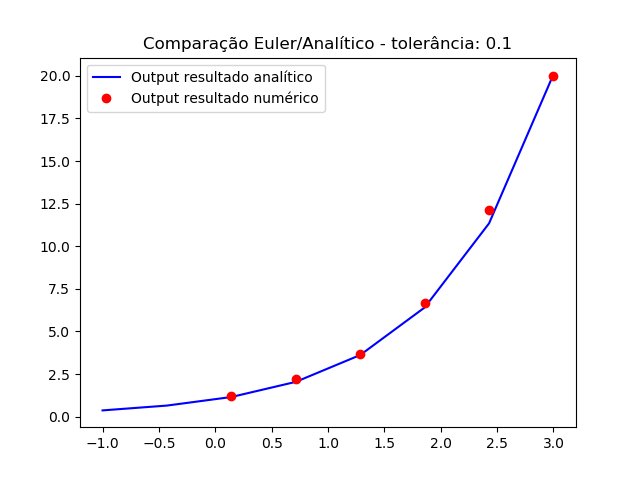
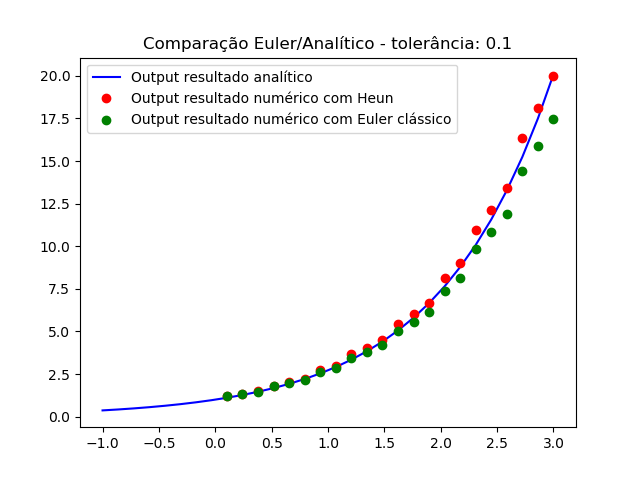
prontinha as imagens

Changed region(s): [[0.2812, 0.1562, 0.875, 0.8438], [0.1562, 0.1875, 0.7188, 0.2812], [0.1875, 0.8438, 0.25, 0.875]]

diff --git a/lista-6/3-questao-delfino.py b/lista-6/3-questao-delfino.py
@@ -10,7 +10,7 @@ def g(x):
 #(-1.2*y_init) + (7*(math.e**(-0.3*x_init)))
 
 global h 
-h = 0.1
+h = 0.3
 
 def heun(x):
     
